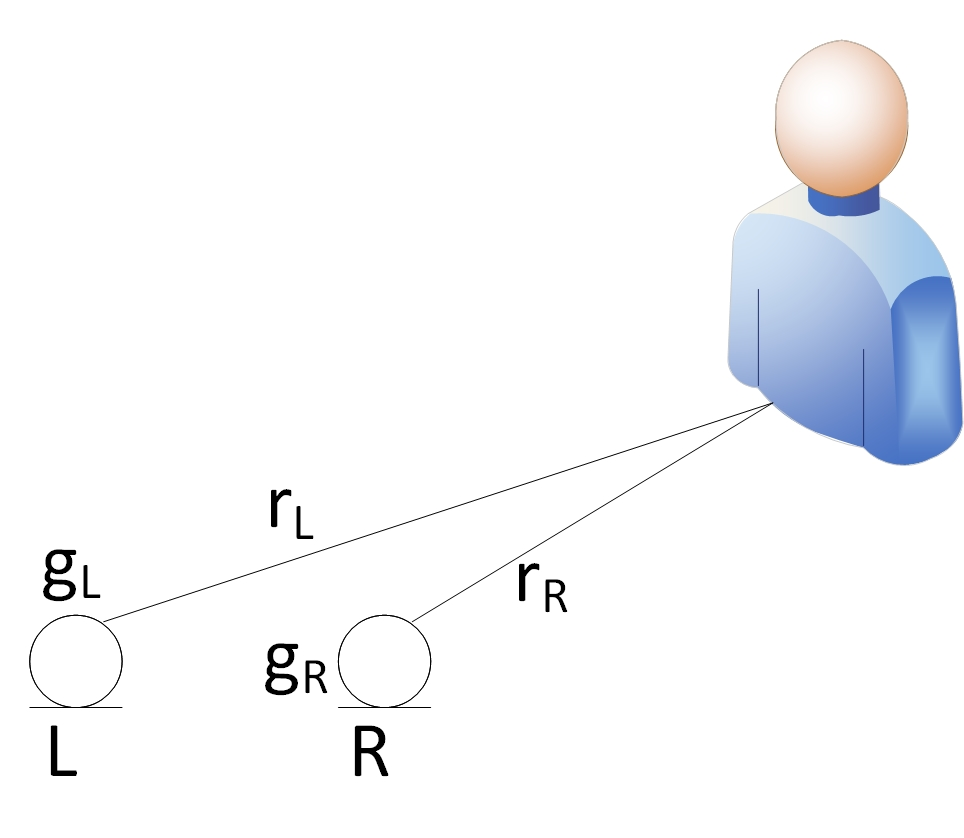
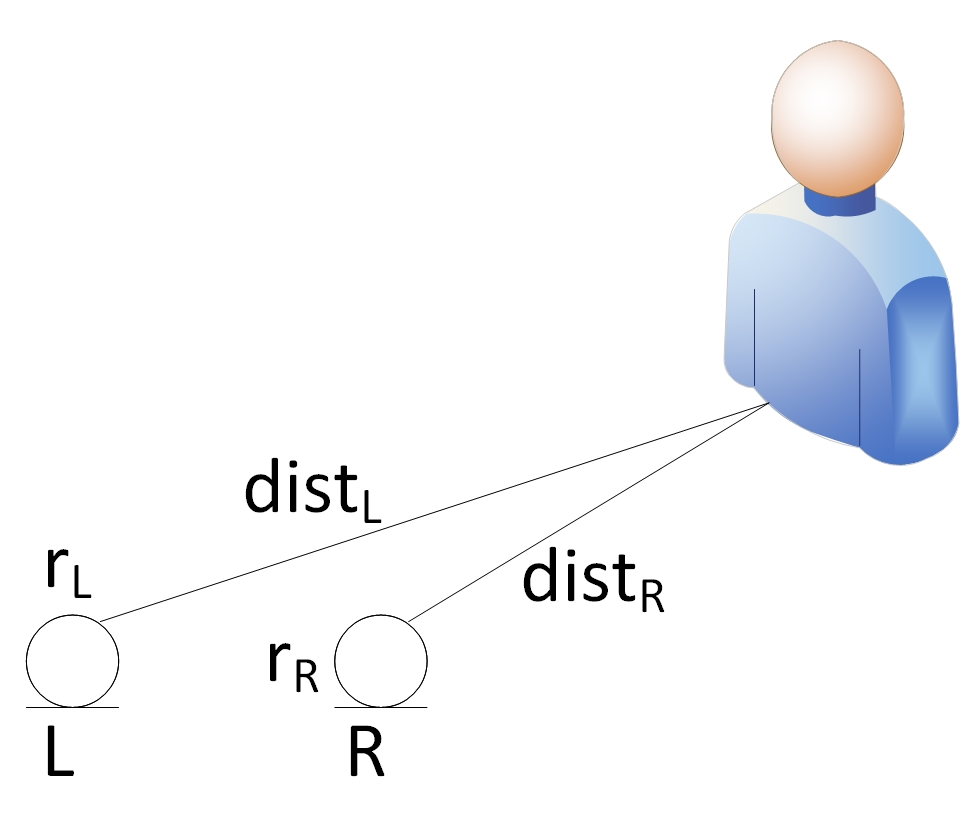
Updated pictures and text

diff --git a/Report/sections/conclusion.tex b/Report/sections/conclusion.tex
@@ -12,10 +12,10 @@ gain loss over distance. \\
 
   Using synthetic samples also gives us more flexibility when testing the code, we just need to adjust the 
 angle that we want to place sources at. 
-  \subsection{Code}
+  \subsection{Gain ratio}
   Code for making synthetic samples needs angles that we want to place sources at and the gap between the 
-microphones. Then we can use code we did for calculating shift in delays from a given angle. Shift the signal 
-by samples, calculated and add gain ratio. \\
+microphones. For shifting we can use code we did to calculate shift in delays from a given angle. Shift the signal 
+and then add gain ratio. \\
   Relationship of sound strength is what we call gain ratio. Sound strength falls by a ratio of \( \frac{1}{2}
 \) when the distance is doubled. Which means that sound strength follows distance inverse-proportionally. 
   By giving one of the microphones gain ratio of 1 we can calculate what is the ratio for the other 
@@ -26,9 +26,9 @@ microphone. Figure \ref{fig:ratioDependence} illustrates the variables used in t
 	\caption{Gain ratio dependence on distance}
 	\label{fig:ratioDependence}
 \end{figure}
-\todo {check matlab script, see if left and right are correctly }
- \[\frac{g_L}{g_R} = \frac{r_R}{r_L} \]\\
-Using this proportion and keeping \(g_L\) as 1 we can calculate gain \(g_R\), which we will multiply with 
-right microphone data to get realistic gain loss. Distances \(r_L\) and \(r_R\) here are the same distances, 
-which we calculate in delay code. This means that in order to get the gain ratio for right microphone we just 
-need to divide distance to the left microphone (\(r_L\)) by distance to the right microphone (\(r_R\)).
+ \[\frac{r_L}{r_R} = \frac{dist_R}{dist_L} \]\\
+Using this proportion and keeping \(r_L\) as 1 we can calculate gain \(r_R\), which we will multiply with 
+right microphone data to get realistic gain loss. Distances \(dist_L\) and \(dist_R\) here are the same 
+distances, which we calculate in delay code. This means that in order to get the gain ratio for right 
+microphone we just need to divide distance to the left microphone (\(dist_L\)) by distance to the right 
+microphone (\(dist_R\)).
